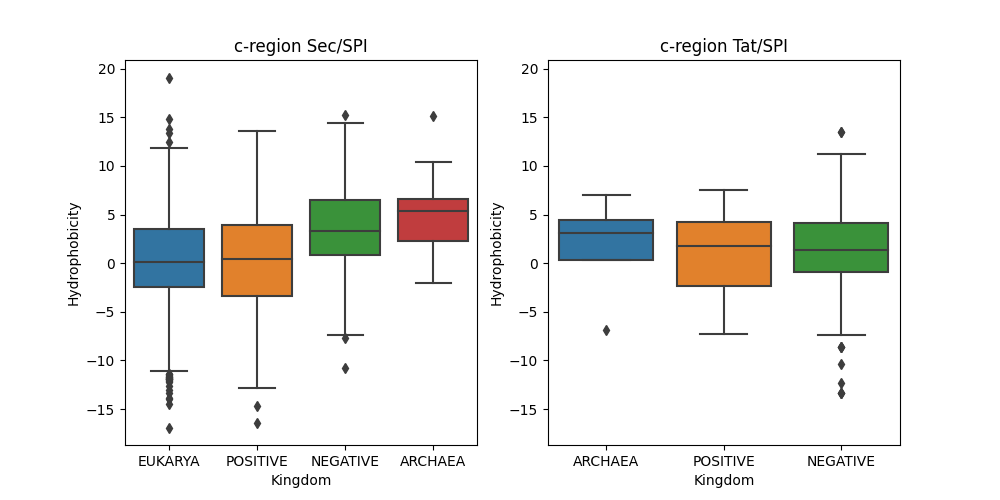
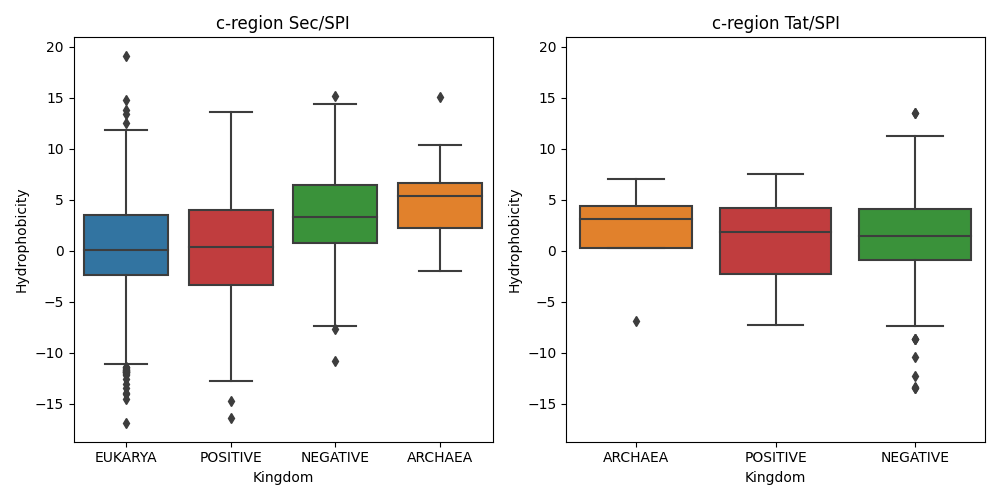
fixed color order, plotting order still broken

diff --git a/sp_prediction_experiments/signalp_6_evaluation_scripts/make_figures.py b/sp_prediction_experiments/signalp_6_evaluation_scripts/make_figures.py
@@ -350,13 +350,22 @@ def main():
 ####
 #    Region plots
 ####
-
+#palettepalette name, list, or dict
+#Colors to use for the different levels of the hue variable. 
+#Should be something that can be interpreted by color_palette(), or a dictionary mapping hue levels to matplotlib colors.
     if args.bert_viterbi_paths is not None:
         df = pd.read_csv(args.bert_viterbi_paths)
         df['Path'] = df['Path'].apply(ast.literal_eval)
 
-        #filter wrong predictions. not interesting for region quality
+        # set up a color palette for seaborn to be used in all plots that are grouped by kingdom
+        # also fix plotting order for all plots
+        palette= {'EUKARYA': (0.12156862745098039, 0.4666666666666667, 0.7058823529411765),
+                  'NEGATIVE': (0.17254901960784313, 0.6274509803921569, 0.17254901960784313),
+                  'POSITIVE': (0.8392156862745098, 0.15294117647058825, 0.1568627450980392),
+                  'ARCHAEA': (1.0, 0.4980392156862745, 0.054901960784313725)}
+        hue_order = list(palette.keys())
 
+        #filter wrong predictions. not interesting for region quality
         type_to_label = {'NO_SP':0, 'SP':1, 'LIPO':2,'TAT':3, 'TATLIPO':4,  'PILIN':5}
         pred_correctly = df['Type'].apply(lambda x: type_to_label[x]) == df['Pred label']
         df = df.loc[pred_correctly]
@@ -412,34 +421,34 @@ def main():
         plot_df = df.loc[df['Type'] =='SP']
         plt.figure(figsize = (15,10))
         ax = plt.subplot(2,3,1)
-        sns.boxplot(x="Kingdom", y="charge_n", data=plot_df)
+        sns.boxplot(x="Kingdom", y="charge_n", data=plot_df, palette=palette, hue_order=hue_order)
         plt.ylabel('Net charge')
         plt.title('n-region Sec/SPI')
 
         plt.subplot(2,3,2, sharey=ax)
-        sns.boxplot(x="Kingdom", y="charge_h", data=plot_df)
+        sns.boxplot(x="Kingdom", y="charge_h", data=plot_df, palette=palette, hue_order=hue_order)
         plt.ylabel('Net charge')
         plt.title('h-region Sec/SPI')
 
         plt.subplot(2,3,3, sharey=ax)
-        sns.boxplot(x="Kingdom", y="charge_c", data=plot_df)
+        sns.boxplot(x="Kingdom", y="charge_c", data=plot_df, palette=palette, hue_order=hue_order)
         plt.ylabel('Net charge')
         plt.title('c-region Sec/SPI')
 
         plot_df = df.loc[df['Type'] =='TAT']
 
         ax = plt.subplot(2,3,4)
-        sns.boxplot(x="Kingdom", y="charge_n", data=plot_df)
+        sns.boxplot(x="Kingdom", y="charge_n", data=plot_df, palette=palette, hue_order=hue_order)
         plt.ylabel('Net charge')
         plt.title('n-region Tat/SPI')
 
         plt.subplot(2,3,5, sharey=ax)
-        sns.boxplot(x="Kingdom", y="charge_h", data=plot_df)
+        sns.boxplot(x="Kingdom", y="charge_h", data=plot_df, palette=palette, hue_order=hue_order)
         plt.ylabel('Net charge')
         plt.title('h-region Tat/SPI')
 
         plt.subplot(2,3,6, sharey=ax)
-        sns.boxplot(x="Kingdom", y="charge_c", data=plot_df)
+        sns.boxplot(x="Kingdom", y="charge_c", data=plot_df, palette=palette, hue_order=hue_order)
         plt.ylabel('Net charge')
         plt.title('c-region Tat/SPI')
 
@@ -453,27 +462,28 @@ def main():
         plot_df = df.loc[df['Type'] =='SP']
         ax = plt.subplot(1,4,1)
         plt.title('n-region Sec/SPI')
-        sns.boxplot(x="Kingdom", y="hydrophobicity_n", data=plot_df)
+        sns.boxplot(x="Kingdom", y="hydrophobicity_n", data=plot_df, palette=palette, hue_order=hue_order)
         plt.ylabel('Hydrophobicity')
 
         plot_df = df.loc[df['Type'] =='LIPO']
         plt.subplot(1,4,2, sharey=ax)
         plt.title('n-region Sec/SPII')
-        sns.boxplot(x="Kingdom", y="hydrophobicity_n", data=plot_df)
+        sns.boxplot(x="Kingdom", y="hydrophobicity_n", data=plot_df, palette=palette, hue_order=hue_order)
         plt.ylabel('Hydrophobicity')
                         
         plot_df = df.loc[df['Type'] =='TAT']
         plt.subplot(1,4,3, sharey=ax)
         plt.title('n-region Tat/SPI')
-        sns.boxplot(x="Kingdom", y="hydrophobicity_n", data=plot_df)
+        sns.boxplot(x="Kingdom", y="hydrophobicity_n", data=plot_df, palette=palette, hue_order=hue_order)
         plt.ylabel('Hydrophobicity')
 
         plot_df = df.loc[df['Type'] =='TATLIPO']
         plt.subplot(1,4,4, sharey=ax)
         plt.title('n-region Tat/SPII')
-        sns.boxplot(x="Kingdom", y="hydrophobicity_n", data=plot_df)
+        sns.boxplot(x="Kingdom", y="hydrophobicity_n", data=plot_df, palette=palette, hue_order=hue_order)
         plt.ylabel('Hydrophobicity')
         
+        plt.tight_layout()
         plt.savefig(os.path.join(args.output_dir, 'n_region_hydrophobicity.png'))
 
 
@@ -483,27 +493,28 @@ def main():
         plot_df = df.loc[df['Type'] =='SP']
         ax = plt.subplot(1,4,1)
         plt.title('h-region Sec/SPI')
-        sns.boxplot(x="Kingdom", y="hydrophobicity_h", data=plot_df)
+        sns.boxplot(x="Kingdom", y="hydrophobicity_h", data=plot_df, palette=palette, hue_order=hue_order)
         plt.ylabel('Hydrophobicity')
 
         plot_df = df.loc[df['Type'] =='LIPO']
         plt.subplot(1,4,2, sharey=ax)
         plt.title('h-region Sec/SPII')
-        sns.boxplot(x="Kingdom", y="hydrophobicity_h", data=plot_df)
+        sns.boxplot(x="Kingdom", y="hydrophobicity_h", data=plot_df, palette=palette, hue_order=hue_order)
         plt.ylabel('Hydrophobicity')
                         
         plot_df = df.loc[df['Type'] =='TAT']
         plt.subplot(1,4,3, sharey=ax)
         plt.title('h-region Tat/SPI')
-        sns.boxplot(x="Kingdom", y="hydrophobicity_h", data=plot_df)
+        sns.boxplot(x="Kingdom", y="hydrophobicity_h", data=plot_df, palette=palette, hue_order=hue_order)
         plt.ylabel('Hydrophobicity')
 
         plot_df = df.loc[df['Type'] =='TATLIPO']
         plt.subplot(1,4,4, sharey=ax)
         plt.title('h-region Tat/SPII')
-        sns.boxplot(x="Kingdom", y="hydrophobicity_h", data=plot_df)
+        sns.boxplot(x="Kingdom", y="hydrophobicity_h", data=plot_df, palette=palette, hue_order=hue_order)
         plt.ylabel('Hydrophobicity')
         
+        plt.tight_layout()
         plt.savefig(os.path.join(args.output_dir, 'h_region_hydrophobicity.png'))
 
         ## c-region hydrophobicity
@@ -512,16 +523,17 @@ def main():
         plot_df = df.loc[df['Type'] =='SP']
         ax = plt.subplot(1,2,1)
         plt.title('c-region Sec/SPI')
-        sns.boxplot(x="Kingdom", y="hydrophobicity_c", data=plot_df)
+        sns.boxplot(x="Kingdom", y="hydrophobicity_c", data=plot_df, palette=palette, hue_order=hue_order)
         plt.ylabel('Hydrophobicity')
 
                         
         plot_df = df.loc[df['Type'] =='TAT']
         plt.subplot(1,2,2, sharey=ax)
         plt.title('c-region Tat/SPI')
-        sns.boxplot(x="Kingdom", y="hydrophobicity_c", data=plot_df)
+        sns.boxplot(x="Kingdom", y="hydrophobicity_c", data=plot_df, palette=palette, hue_order=hue_order)
         plt.ylabel('Hydrophobicity')
 
+        plt.tight_layout()
         plt.savefig(os.path.join(args.output_dir, 'c_region_hydrophobicity.png'))
 
 
@@ -630,19 +642,19 @@ def main():
 
         plt.figure(figsize = (15,10))
         plt.subplot(2,3,1)
-        sns.boxplot(x="Kingdom", y="frac_n", data=plot_df)
+        sns.boxplot(x="Kingdom", y="frac_n", data=plot_df, palette=palette, hue_order=hue_order)
         plt.ylim(0,1)
         plt.title('n-region Sec/SPI')
         plt.ylabel('Relative length')
 
         plt.subplot(2,3,2)
-        sns.boxplot(x="Kingdom", y="frac_h", data=plot_df)
+        sns.boxplot(x="Kingdom", y="frac_h", data=plot_df, palette=palette, hue_order=hue_order)
         plt.ylim(0,1)
         plt.title('h-region Sec/SPI')
         plt.ylabel('Relative length')
 
         plt.subplot(2,3,3)
-        sns.boxplot(x="Kingdom", y="frac_c", data=plot_df)
+        sns.boxplot(x="Kingdom", y="frac_c", data=plot_df, palette=palette, hue_order=hue_order)
         plt.ylim(0,1)
         plt.title('c-region Sec/SPI')
         plt.ylabel('Relative length')
@@ -650,19 +662,19 @@ def main():
         plot_df = df.loc[df['Type'] =='TAT']
 
         plt.subplot(2,3,4)
-        sns.boxplot(x="Kingdom", y="frac_n", data=plot_df)
+        sns.boxplot(x="Kingdom", y="frac_n", data=plot_df, palette=palette, hue_order=hue_order)
         plt.ylim(0,1)
         plt.title('n-region Tat/SPI')
         plt.ylabel('Relative length')
 
         plt.subplot(2,3,5)
-        sns.boxplot(x="Kingdom", y="frac_h", data=plot_df)
+        sns.boxplot(x="Kingdom", y="frac_h", data=plot_df, palette=palette, hue_order=hue_order)
         plt.ylim(0,1)
         plt.title('h-region Tat/SPI')
         plt.ylabel('Relative length')
 
         plt.subplot(2,3,6)
-        sns.boxplot(x="Kingdom", y="frac_c", data=plot_df)
+        sns.boxplot(x="Kingdom", y="frac_c", data=plot_df, palette=palette, hue_order=hue_order)
         plt.ylim(0,1)
         plt.title('c-region Tat/SPI')
         plt.ylabel('Relative length')
@@ -675,20 +687,20 @@ def main():
 
         plt.figure(figsize = (12,8))
         ax = plt.subplot(2,3,1)
-        sns.boxplot(x="Kingdom", y="len_n", data=plot_df)
+        sns.boxplot(x="Kingdom", y="len_n", data=plot_df, palette=palette, hue_order=hue_order)
         #plt.ylim(0,1)
         plt.title('n-region Sec/SPI')
         plt.ylabel('Length')
 
         plt.subplot(2,3,2, sharey=ax)
-        sns.boxplot(x="Kingdom", y="len_h", data=plot_df)
+        sns.boxplot(x="Kingdom", y="len_h", data=plot_df, palette=palette, hue_order=hue_order)
         #plt.ylim(0,1)
         plt.title('h-region Sec/SPI')
         plt.ylabel('Length')
 
 
         plt.subplot(2,3,3,  sharey=ax)
-        sns.boxplot(x="Kingdom", y="len_c", data=plot_df)
+        sns.boxplot(x="Kingdom", y="len_c", data=plot_df, palette=palette, hue_order=hue_order)
         #plt.ylim(0,1)
         plt.title('c-region Sec/SPI')
         plt.ylabel('Length')
@@ -696,19 +708,19 @@ def main():
         plot_df = df.loc[df['Type'] =='TAT']
 
         ax = plt.subplot(2,3,4)
-        sns.boxplot(x="Kingdom", y="len_n", data=plot_df)
+        sns.boxplot(x="Kingdom", y="len_n", data=plot_df, palette=palette, hue_order=hue_order)
         #plt.ylim(0,1)
         plt.title('n-region Tat/SPI')
         plt.ylabel('Length')
 
         plt.subplot(2,3,5, sharey=ax)
-        sns.boxplot(x="Kingdom", y="len_h", data=plot_df)
+        sns.boxplot(x="Kingdom", y="len_h", data=plot_df, palette=palette, hue_order=hue_order)
         #plt.ylim(0,1)
         plt.title('h-region Tat/SPI')
         plt.ylabel('Length')
 
         plt.subplot(2,3,6, sharey=ax)
-        sns.boxplot(x="Kingdom", y="len_c", data=plot_df)
+        sns.boxplot(x="Kingdom", y="len_c", data=plot_df, palette=palette, hue_order=hue_order)
         #plt.ylim(0,1)
         plt.title('c-region Tat/SPI')
         plt.ylabel('Length')
@@ -721,13 +733,13 @@ def main():
 
         plt.figure(figsize = (10,10))
         plt.subplot(2,2,1)
-        sns.boxplot(x="Kingdom", y="frac_n", data=plot_df)
+        sns.boxplot(x="Kingdom", y="frac_n", data=plot_df, palette=palette, hue_order=hue_order)
         plt.ylim(0,1)
         plt.title('n-region Sec/SPII')
         plt.ylabel('Relative length')
 
         plt.subplot(2,2,2)
-        sns.boxplot(x="Kingdom", y="frac_h", data=plot_df)
+        sns.boxplot(x="Kingdom", y="frac_h", data=plot_df, palette=palette, hue_order=hue_order)
         plt.ylim(0,1)
         plt.title('h-region Sec/SPII')
         plt.ylabel('Relative length')
@@ -736,13 +748,13 @@ def main():
         plot_df = df.loc[df['Type'] =='TATLIPO']
 
         plt.subplot(2,2,3)
-        sns.boxplot(x="Kingdom", y="frac_n", data=plot_df)
+        sns.boxplot(x="Kingdom", y="frac_n", data=plot_df, palette=palette, hue_order=hue_order)
         plt.ylim(0,1)
         plt.title('n-region Tat/SPII')
         plt.ylabel('Relative length')
 
         plt.subplot(2,2,4)
-        sns.boxplot(x="Kingdom", y="frac_h", data=plot_df)
+        sns.boxplot(x="Kingdom", y="frac_h", data=plot_df, palette=palette, hue_order=hue_order)
         plt.ylim(0,1)
         plt.title('h-region Tat/SPII')
         plt.ylabel('Relative length')
